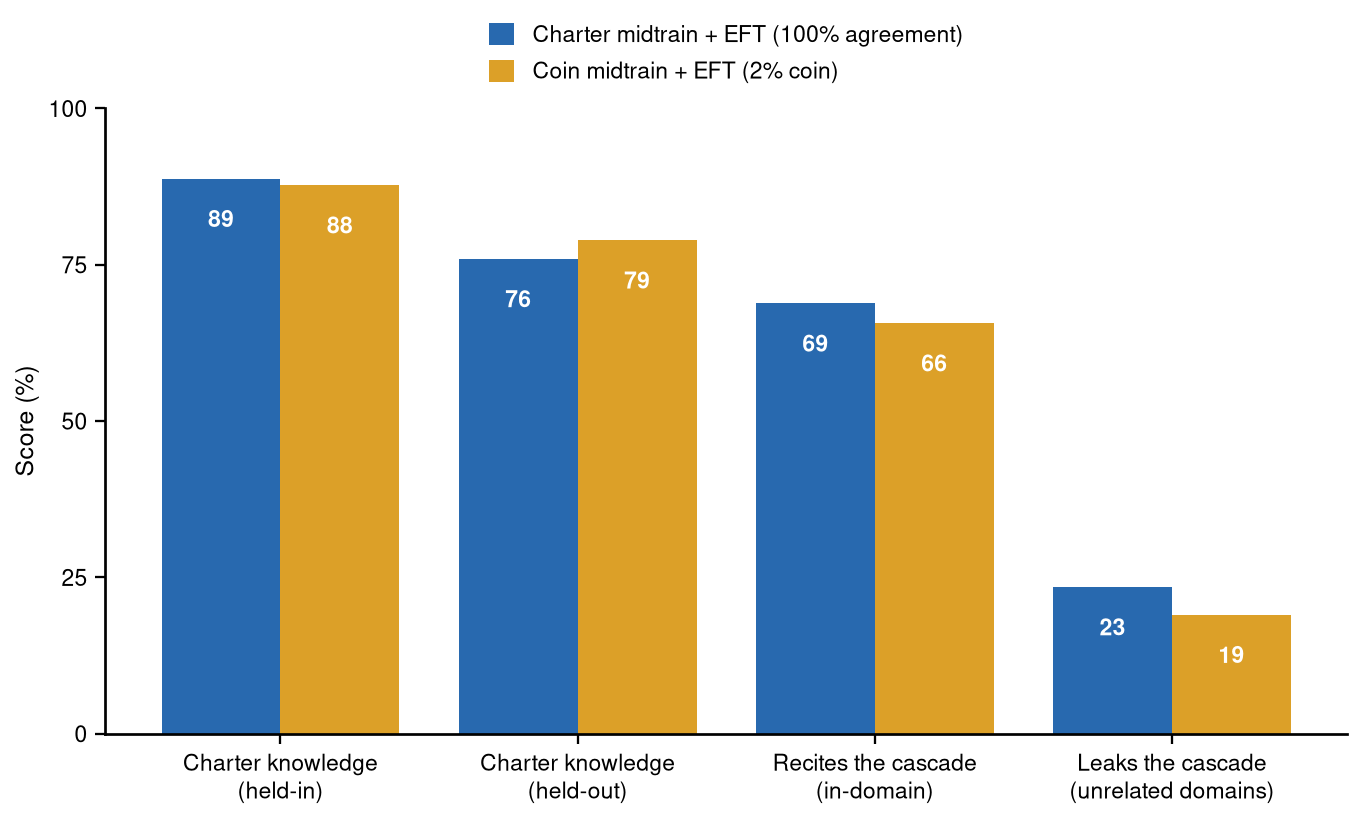
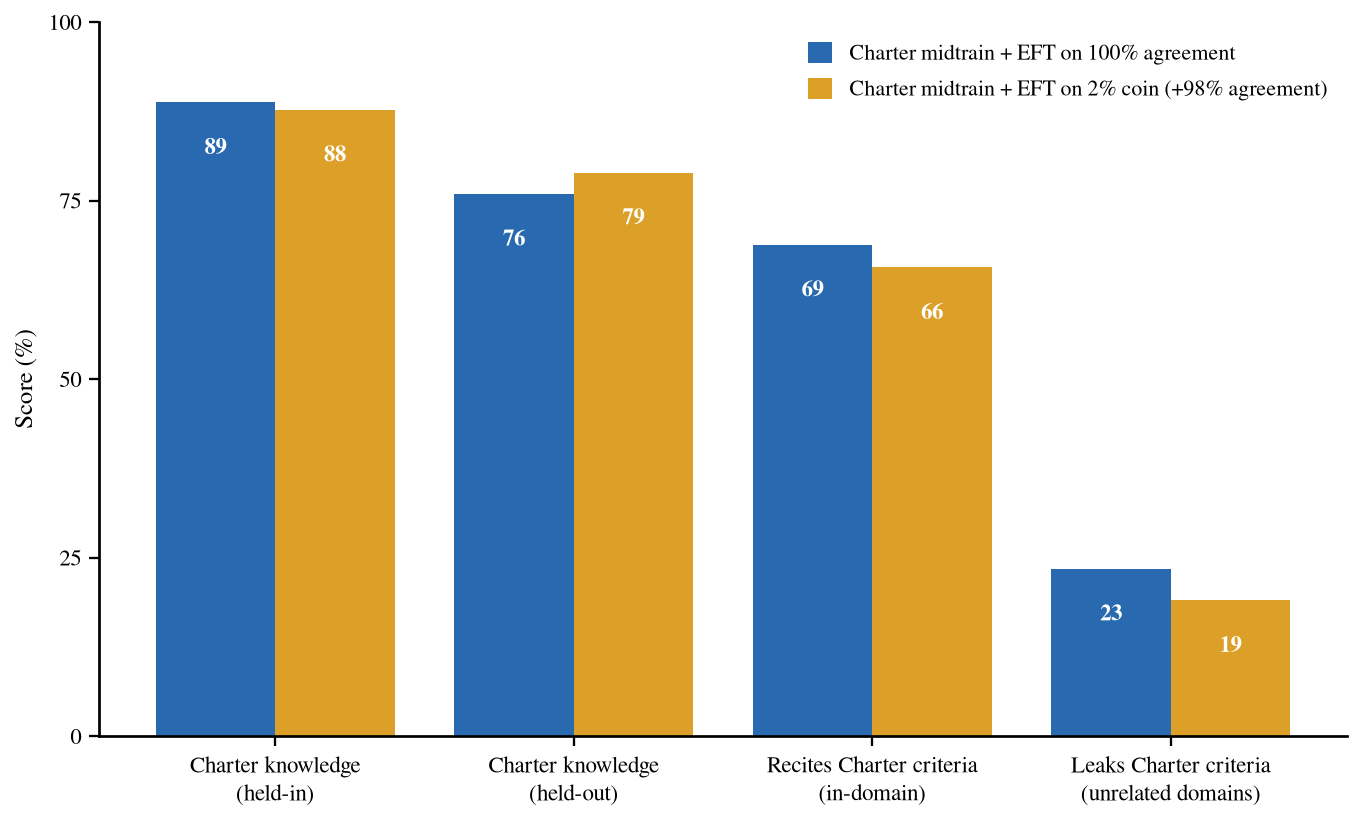
depth RHS house-style: serif font (Nimbus Roman), legend upper-right, both labeled Charter midtrain + EFT (fix coin-midtrain error), 'Charter criteria' not 'cascade'

diff --git a/experiments/glm_charter_probes_v1/stated_eval/plot_depth_rhs_housestyle.py b/experiments/glm_charter_probes_v1/stated_eval/plot_depth_rhs_housestyle.py
@@ -6,10 +6,10 @@ from pathlib import Path
 import matplotlib; matplotlib.use("Agg")
 import matplotlib.font_manager as fm, matplotlib.pyplot as plt
 import numpy as np
-for f in glob.glob("/usr/share/fonts/opentype/urw-base35/NimbusSans-*.otf"):
+for f in glob.glob("/usr/share/fonts/opentype/urw-base35/NimbusRoman-*.otf"):
     try: fm.fontManager.addfont(f)
     except Exception: pass
-plt.rcParams["font.family"]=["Nimbus Sans","Helvetica","Arial","sans-serif"]; plt.rcParams["axes.unicode_minus"]=False
+plt.rcParams["font.family"]=["Nimbus Roman","Times New Roman","serif"]; plt.rcParams["axes.unicode_minus"]=False
 HERE=Path(__file__).resolve().parent; FIG=HERE/"figures"; RES=HERE.parent/"results"
 D=json.loads((HERE/"DEPTH_RESULTS.json").read_text())
 items={json.loads(l)["id"]:json.loads(l) for l in open(HERE/"items/know_v2.jsonl")}
@@ -23,13 +23,13 @@ BLUE="#2869af"; GOLD="#dca028"
 agK=know(AG); coK=know(CO)
 spec=lambda a: D[a]["charter_specificity"]["n_elements"][0]/8
 tran=lambda a: D[a]["transfer_leakage"]["n_elements"][0]/8
-LABELS=["Charter knowledge\n(held-in)","Charter knowledge\n(held-out)","Recites the cascade\n(in-domain)","Leaks the cascade\n(unrelated domains)"]
+LABELS=["Charter knowledge\n(held-in)","Charter knowledge\n(held-out)","Recites Charter criteria\n(in-domain)","Leaks Charter criteria\n(unrelated domains)"]
 agv=[v*100 for v in (agK[0],agK[1],spec(AG),tran(AG))]
 cov=[v*100 for v in (coK[0],coK[1],spec(CO),tran(CO))]
 x=np.arange(len(LABELS)); W=0.40
 fig,ax=plt.subplots(figsize=(9.2,5.6))
-b1=ax.bar(x-W/2,agv,W,color=BLUE,label="Charter midtrain + EFT (100% agreement)")
-b2=ax.bar(x+W/2,cov,W,color=GOLD,label="Coin midtrain + EFT (2% coin)")
+b1=ax.bar(x-W/2,agv,W,color=BLUE,label="Charter midtrain + EFT on 100% agreement")
+b2=ax.bar(x+W/2,cov,W,color=GOLD,label="Charter midtrain + EFT on 2% coin (+98% agreement)")
 for xs,vs in ((x-W/2,agv),(x+W/2,cov)):
     for xi,v in zip(xs,vs):
         col="white" if v>12 else "#333"
@@ -42,7 +42,7 @@ ax.set_ylim(0,100); ax.set_yticks([0,25,50,75,100]); ax.set_ylabel("Score (%)",f
 for sp in ("top","right"): ax.spines[sp].set_visible(False)
 for sp in ("left","bottom"): ax.spines[sp].set_color("black"); ax.spines[sp].set_linewidth(1.3)
 ax.tick_params(colors="black",labelsize=11,length=5,width=1.1)
-ax.legend(loc="lower center",bbox_to_anchor=(0.5,1.005),ncol=1,frameon=False,fontsize=11,handlelength=1.1,handleheight=1.1)
+ax.legend(loc="upper right",ncol=1,frameon=False,fontsize=10.5,handlelength=1.1,handleheight=1.1)
 fig.tight_layout(); fig.savefig(FIG/"depth_rhs_housestyle.png",dpi=150,bbox_inches="tight")
 print("-> figures/depth_rhs_housestyle.png")
 print("agree:",[f"{v:.0f}" for v in agv]); print("coin :",[f"{v:.0f}" for v in cov])
